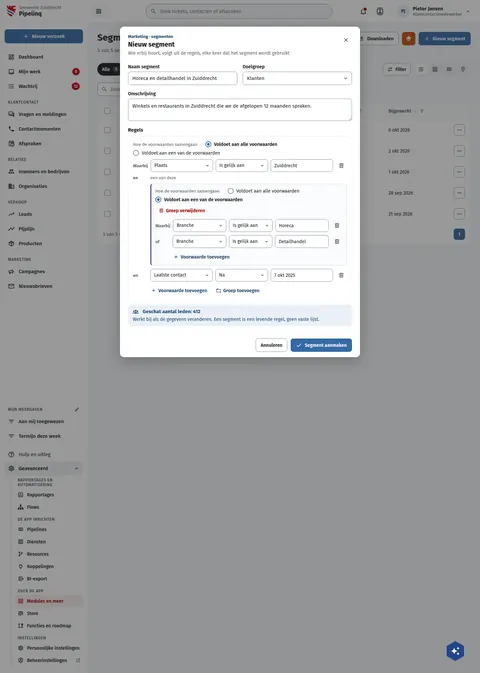
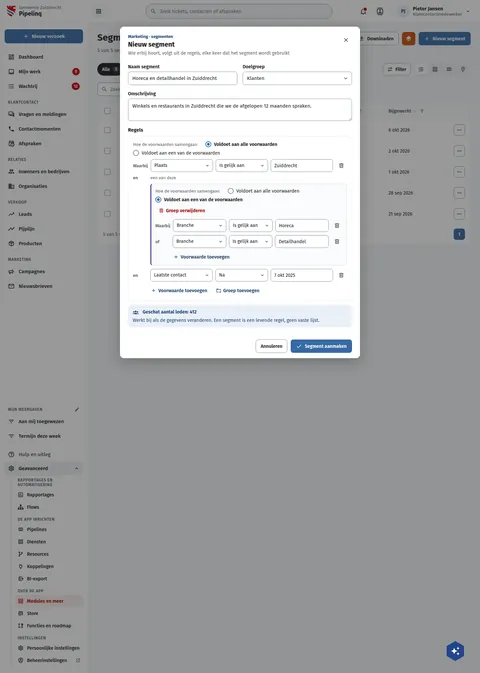
fix(screens): PqSegmentBouwer estimate note titles as the Dq dialog notes
The Dq boards title a tonal note in a dialog 14px bold on a 1.5 line
(DqArchiveren "Daarna alleen lezen", DqBesluit "Publiceren doet u
daarna"); PqSegmentBouwer drew "Geschat aantal leden" at 15px on the
normal line. Built with build.py --only; screens.json left as it was.

Assisted-by: ClaudeCode:claude-opus-5-5

Changed region(s): [[0.4688, 0.4681, 0.75, 0.5305], [0.2812, 0.4368, 0.4375, 0.4993]]

diff --git a/preview/screens/boards/PqSegmentBouwer.html b/preview/screens/boards/PqSegmentBouwer.html
@@ -299,7 +299,7 @@ a{color:var(--sc-primary, #3669a5)}a:hover{color:var(--sc-primary-deep, #234a78)
     <div style="display: flex; align-items: center; gap: 8px"><span style="flex: 0 0 44px; font-size: 13px; color: var(--sc-work-muted, #5e6168); font-weight: 600">en</span><div style="position: relative; flex: 1 1 150px; min-width: 0"><select aria-label="Veld" style="width: 100%; height: 38px; box-sizing: border-box; padding: 0 32px 0 10px; border: 1px solid var(--sc-work-field, #828a95); border-radius: 8px; background: #ffffff; font: 400 14px var(--sc-font, 'Fira Sans'), sans-serif; color: var(--sc-work-ink, #1b1c1d); appearance: none"><option>Laatste contact</option></select><svg width="16" height="16" viewbox="0 0 24 24" fill="#3d4047" style="position: absolute; right: 9px; top: 11px; pointer-events: none;fill:var(--sc-work-text, #3d4047)"><path d="M7.41,8.58L12,13.17L16.59,8.58L18,10L12,16L6,10L7.41,8.58Z"></path></svg></div><div style="position: relative; flex: 1 1 120px; min-width: 0"><select aria-label="Voorwaarde" style="width: 100%; height: 38px; box-sizing: border-box; padding: 0 32px 0 10px; border: 1px solid var(--sc-work-field, #828a95); border-radius: 8px; background: #ffffff; font: 400 14px var(--sc-font, 'Fira Sans'), sans-serif; color: var(--sc-work-ink, #1b1c1d); appearance: none"><option>Na</option></select><svg width="16" height="16" viewbox="0 0 24 24" fill="#3d4047" style="position: absolute; right: 9px; top: 11px; pointer-events: none;fill:var(--sc-work-text, #3d4047)"><path d="M7.41,8.58L12,13.17L16.59,8.58L18,10L12,16L6,10L7.41,8.58Z"></path></svg></div><input type="text" aria-label="Waarde" value="7 okt 2025" style="flex: 1 1 150px; min-width: 0; height: 38px; box-sizing: border-box; padding: 0 10px; border: 1px solid var(--sc-work-field, #828a95); border-radius: 8px; font: 400 14px var(--sc-font, 'Fira Sans'), sans-serif; color: var(--sc-work-ink, #1b1c1d)"><button type="button" aria-label="Voorwaarde verwijderen" title="Voorwaarde verwijderen" style="width: 34px; height: 34px; flex: none; border: 0; border-radius: 17px; background: transparent; color: var(--sc-work-text, #3d4047); display: flex; align-items: center; justify-content: center"><svg width="18" height="18" viewbox="0 0 24 24" fill="currentColor"><path d="M9,3V4H4V6H5V19A2,2 0 0,0 7,21H17A2,2 0 0,0 19,19V6H20V4H15V3H9M7,6H17V19H7V6M9,8V17H11V8H9M13,8V17H15V8H13Z"></path></svg></button></div>
     <div style="display: flex; flex-wrap: wrap; gap: 6px; padding-left: 44px"><button type="button" style="display: inline-flex; align-items: center; gap: 6px; height: 34px; padding: 0 10px; border: 0; border-radius: 8px; background: transparent; font: 600 14px var(--sc-font, 'Fira Sans'), sans-serif; color: var(--sc-primary-deep, #234a78); white-space: nowrap"><svg width="16" height="16" viewbox="0 0 24 24" fill="currentColor"><path d="M19,13H13V19H11V13H5V11H11V5H13V11H19V13Z"></path></svg>Voorwaarde toevoegen</button><button type="button" style="display: inline-flex; align-items: center; gap: 6px; height: 34px; padding: 0 10px; border: 0; border-radius: 8px; background: transparent; font: 600 14px var(--sc-font, 'Fira Sans'), sans-serif; color: var(--sc-primary-deep, #234a78); white-space: nowrap"><svg width="16" height="16" viewbox="0 0 24 24" fill="currentColor"><path d="M13 19C13 19.34 13.04 19.67 13.09 20H4C2.9 20 2 19.11 2 18V6C2 4.89 2.89 4 4 4H10L12 6H20C21.1 6 22 6.89 22 8V13.81C21.39 13.46 20.72 13.22 20 13.09V8H4V18H13.09C13.04 18.33 13 18.66 13 19M20 18V15H18V18H15V20H18V23H20V20H23V18H20Z"></path></svg>Groep toevoegen</button></div>
   </div>
-  <div role="status" style="display: flex; flex-wrap: wrap; align-items: center; gap: 6px 12px; padding: 12px 14px; border-radius: 10px; background: var(--sc-primary-light, #eaf0f7); color: var(--sc-primary-deep, #234a78); font-size: 14px"><svg width="18" height="18" viewbox="0 0 24 24" fill="currentColor"><path d="M12,5.5A3.5,3.5 0 0,1 15.5,9A3.5,3.5 0 0,1 12,12.5A3.5,3.5 0 0,1 8.5,9A3.5,3.5 0 0,1 12,5.5M5,8C5.56,8 6.08,8.15 6.53,8.42C6.38,9.85 6.8,11.27 7.66,12.38C7.16,13.34 6.16,14 5,14A3,3 0 0,1 2,11A3,3 0 0,1 5,8M19,8A3,3 0 0,1 22,11A3,3 0 0,1 19,14C17.84,14 16.84,13.34 16.34,12.38C17.2,11.27 17.62,9.85 17.47,8.42C17.92,8.15 18.44,8 19,8M5.5,18.25C5.5,16.18 8.41,14.5 12,14.5C15.59,14.5 18.5,16.18 18.5,18.25V20H5.5V18.25M0,20V18.5C0,17.11 1.89,15.94 4.45,15.6C3.86,16.28 3.5,17.22 3.5,18.25V20H0M24,20H20.5V18.25C20.5,17.22 20.14,16.28 19.55,15.6C22.11,15.94 24,17.11 24,18.5V20Z"></path></svg><strong style="font-size: 15px">Geschat aantal leden: 412</strong><span style="color: var(--sc-primary-deep, #234a78)">Werkt bij als de gegevens veranderen. Een segment is een levende regel, geen vaste lijst.</span></div>
+  <div role="status" style="display: flex; flex-wrap: wrap; align-items: center; gap: 6px 12px; padding: 12px 14px; border-radius: 10px; background: var(--sc-primary-light, #eaf0f7); color: var(--sc-primary-deep, #234a78); font-size: 14px"><svg width="18" height="18" viewbox="0 0 24 24" fill="currentColor"><path d="M12,5.5A3.5,3.5 0 0,1 15.5,9A3.5,3.5 0 0,1 12,12.5A3.5,3.5 0 0,1 8.5,9A3.5,3.5 0 0,1 12,5.5M5,8C5.56,8 6.08,8.15 6.53,8.42C6.38,9.85 6.8,11.27 7.66,12.38C7.16,13.34 6.16,14 5,14A3,3 0 0,1 2,11A3,3 0 0,1 5,8M19,8A3,3 0 0,1 22,11A3,3 0 0,1 19,14C17.84,14 16.84,13.34 16.34,12.38C17.2,11.27 17.62,9.85 17.47,8.42C17.92,8.15 18.44,8 19,8M5.5,18.25C5.5,16.18 8.41,14.5 12,14.5C15.59,14.5 18.5,16.18 18.5,18.25V20H5.5V18.25M0,20V18.5C0,17.11 1.89,15.94 4.45,15.6C3.86,16.28 3.5,17.22 3.5,18.25V20H0M24,20H20.5V18.25C20.5,17.22 20.14,16.28 19.55,15.6C22.11,15.94 24,17.11 24,18.5V20Z"></path></svg><strong style="font-size: 14px; line-height: 1.5">Geschat aantal leden: 412</strong><span style="color: var(--sc-primary-deep, #234a78)">Werkt bij als de gegevens veranderen. Een segment is een levende regel, geen vaste lijst.</span></div>
 </section></div>
       <div style="display: flex; flex-wrap: wrap; justify-content: flex-end; gap: 10px; padding: 16px 24px; border-top: 1px solid var(--sc-work-soft, #eef0f3)"><button type="button" style="display: flex; align-items: center; gap: 8px; height: 40px; padding: 0 14px; border: 1px solid var(--sc-work-field, #828a95); border-radius: 8px; background: #ffffff; font: 600 14px var(--sc-font, 'Fira Sans'), sans-serif; color: var(--sc-work-ink, #1b1c1d); white-space: nowrap">Annuleren</button><button type="button" style="display: flex; align-items: center; gap: 8px; height: 40px; padding: 0 16px; border: 0; border-radius: 8px; background: var(--sc-primary, #3669a5); color: #ffffff; font: 600 14px var(--sc-font, 'Fira Sans'), sans-serif; white-space: nowrap"><svg width="18" height="18" viewbox="0 0 24 24" fill="currentColor"><path d="M21,7L9,19L3.5,13.5L4.91,12.09L9,16.17L19.59,5.59L21,7Z"></path></svg>Segment aanmaken</button></div>
     </div>

diff --git a/screens-src/zuiddrecht/PqSegmentBouwer.dc.html b/screens-src/zuiddrecht/PqSegmentBouwer.dc.html
@@ -81,7 +81,7 @@ a{color:#3669a5}a:hover{color:#234a78}
     <div style="display: flex; align-items: center; gap: 8px"><span style="flex: 0 0 44px; font-size: 13px; color: #5e6168; font-weight: 600">en</span><div style="position: relative; flex: 1 1 150px; min-width: 0"><select aria-label="Veld" style="width: 100%; height: 38px; box-sizing: border-box; padding: 0 32px 0 10px; border: 1px solid #828a95; border-radius: 8px; background: #ffffff; font: 400 14px 'Fira Sans', sans-serif; color: #1b1c1d; appearance: none"><option>Laatste contact</option></select><svg width="16" height="16" viewBox="0 0 24 24" fill="#3d4047" style="position: absolute; right: 9px; top: 11px; pointer-events: none"><path d="M7.41,8.58L12,13.17L16.59,8.58L18,10L12,16L6,10L7.41,8.58Z"></path></svg></div><div style="position: relative; flex: 1 1 120px; min-width: 0"><select aria-label="Voorwaarde" style="width: 100%; height: 38px; box-sizing: border-box; padding: 0 32px 0 10px; border: 1px solid #828a95; border-radius: 8px; background: #ffffff; font: 400 14px 'Fira Sans', sans-serif; color: #1b1c1d; appearance: none"><option>Na</option></select><svg width="16" height="16" viewBox="0 0 24 24" fill="#3d4047" style="position: absolute; right: 9px; top: 11px; pointer-events: none"><path d="M7.41,8.58L12,13.17L16.59,8.58L18,10L12,16L6,10L7.41,8.58Z"></path></svg></div><input type="text" aria-label="Waarde" value="7 okt 2025" style="flex: 1 1 150px; min-width: 0; height: 38px; box-sizing: border-box; padding: 0 10px; border: 1px solid #828a95; border-radius: 8px; font: 400 14px 'Fira Sans', sans-serif; color: #1b1c1d"><button type="button" aria-label="Voorwaarde verwijderen" title="Voorwaarde verwijderen" style="width: 34px; height: 34px; flex: none; border: 0; border-radius: 17px; background: transparent; color: #3d4047; display: flex; align-items: center; justify-content: center"><svg width="18" height="18" viewBox="0 0 24 24" fill="currentColor"><path d="M9,3V4H4V6H5V19A2,2 0 0,0 7,21H17A2,2 0 0,0 19,19V6H20V4H15V3H9M7,6H17V19H7V6M9,8V17H11V8H9M13,8V17H15V8H13Z"></path></svg></button></div>
     <div style="display: flex; flex-wrap: wrap; gap: 6px; padding-left: 44px"><button type="button" style="display: inline-flex; align-items: center; gap: 6px; height: 34px; padding: 0 10px; border: 0; border-radius: 8px; background: transparent; font: 600 14px 'Fira Sans', sans-serif; color: #234a78; white-space: nowrap"><svg width="16" height="16" viewBox="0 0 24 24" fill="currentColor"><path d="M19,13H13V19H11V13H5V11H11V5H13V11H19V13Z"></path></svg>Voorwaarde toevoegen</button><button type="button" style="display: inline-flex; align-items: center; gap: 6px; height: 34px; padding: 0 10px; border: 0; border-radius: 8px; background: transparent; font: 600 14px 'Fira Sans', sans-serif; color: #234a78; white-space: nowrap"><svg width="16" height="16" viewBox="0 0 24 24" fill="currentColor"><path d="M13 19C13 19.34 13.04 19.67 13.09 20H4C2.9 20 2 19.11 2 18V6C2 4.89 2.89 4 4 4H10L12 6H20C21.1 6 22 6.89 22 8V13.81C21.39 13.46 20.72 13.22 20 13.09V8H4V18H13.09C13.04 18.33 13 18.66 13 19M20 18V15H18V18H15V20H18V23H20V20H23V18H20Z"></path></svg>Groep toevoegen</button></div>
   </div>
-  <div role="status" style="display: flex; flex-wrap: wrap; align-items: center; gap: 6px 12px; padding: 12px 14px; border-radius: 10px; background: #eaf0f7; color: #234a78; font-size: 14px"><svg width="18" height="18" viewBox="0 0 24 24" fill="currentColor"><path d="M12,5.5A3.5,3.5 0 0,1 15.5,9A3.5,3.5 0 0,1 12,12.5A3.5,3.5 0 0,1 8.5,9A3.5,3.5 0 0,1 12,5.5M5,8C5.56,8 6.08,8.15 6.53,8.42C6.38,9.85 6.8,11.27 7.66,12.38C7.16,13.34 6.16,14 5,14A3,3 0 0,1 2,11A3,3 0 0,1 5,8M19,8A3,3 0 0,1 22,11A3,3 0 0,1 19,14C17.84,14 16.84,13.34 16.34,12.38C17.2,11.27 17.62,9.85 17.47,8.42C17.92,8.15 18.44,8 19,8M5.5,18.25C5.5,16.18 8.41,14.5 12,14.5C15.59,14.5 18.5,16.18 18.5,18.25V20H5.5V18.25M0,20V18.5C0,17.11 1.89,15.94 4.45,15.6C3.86,16.28 3.5,17.22 3.5,18.25V20H0M24,20H20.5V18.25C20.5,17.22 20.14,16.28 19.55,15.6C22.11,15.94 24,17.11 24,18.5V20Z"></path></svg><strong style="font-size: 15px">Geschat aantal leden: 412</strong><span style="color: #234a78">Werkt bij als de gegevens veranderen. Een segment is een levende regel, geen vaste lijst.</span></div>
+  <div role="status" style="display: flex; flex-wrap: wrap; align-items: center; gap: 6px 12px; padding: 12px 14px; border-radius: 10px; background: #eaf0f7; color: #234a78; font-size: 14px"><svg width="18" height="18" viewBox="0 0 24 24" fill="currentColor"><path d="M12,5.5A3.5,3.5 0 0,1 15.5,9A3.5,3.5 0 0,1 12,12.5A3.5,3.5 0 0,1 8.5,9A3.5,3.5 0 0,1 12,5.5M5,8C5.56,8 6.08,8.15 6.53,8.42C6.38,9.85 6.8,11.27 7.66,12.38C7.16,13.34 6.16,14 5,14A3,3 0 0,1 2,11A3,3 0 0,1 5,8M19,8A3,3 0 0,1 22,11A3,3 0 0,1 19,14C17.84,14 16.84,13.34 16.34,12.38C17.2,11.27 17.62,9.85 17.47,8.42C17.92,8.15 18.44,8 19,8M5.5,18.25C5.5,16.18 8.41,14.5 12,14.5C15.59,14.5 18.5,16.18 18.5,18.25V20H5.5V18.25M0,20V18.5C0,17.11 1.89,15.94 4.45,15.6C3.86,16.28 3.5,17.22 3.5,18.25V20H0M24,20H20.5V18.25C20.5,17.22 20.14,16.28 19.55,15.6C22.11,15.94 24,17.11 24,18.5V20Z"></path></svg><strong style="font-size: 14px; line-height: 1.5">Geschat aantal leden: 412</strong><span style="color: #234a78">Werkt bij als de gegevens veranderen. Een segment is een levende regel, geen vaste lijst.</span></div>
 </section></div>
       <div style="display: flex; flex-wrap: wrap; justify-content: flex-end; gap: 10px; padding: 16px 24px; border-top: 1px solid #eef0f3"><button type="button" style="display: flex; align-items: center; gap: 8px; height: 40px; padding: 0 14px; border: 1px solid #828a95; border-radius: 8px; background: #ffffff; font: 600 14px 'Fira Sans', sans-serif; color: #1b1c1d; white-space: nowrap">Annuleren</button><button type="button" style="display: flex; align-items: center; gap: 8px; height: 40px; padding: 0 16px; border: 0; border-radius: 8px; background: #3669a5; color: #ffffff; font: 600 14px 'Fira Sans', sans-serif; white-space: nowrap"><svg width="18" height="18" viewBox="0 0 24 24" fill="currentColor"><path d="M21,7L9,19L3.5,13.5L4.91,12.09L9,16.17L19.59,5.59L21,7Z"></path></svg>Segment aanmaken</button></div>
     </div>
